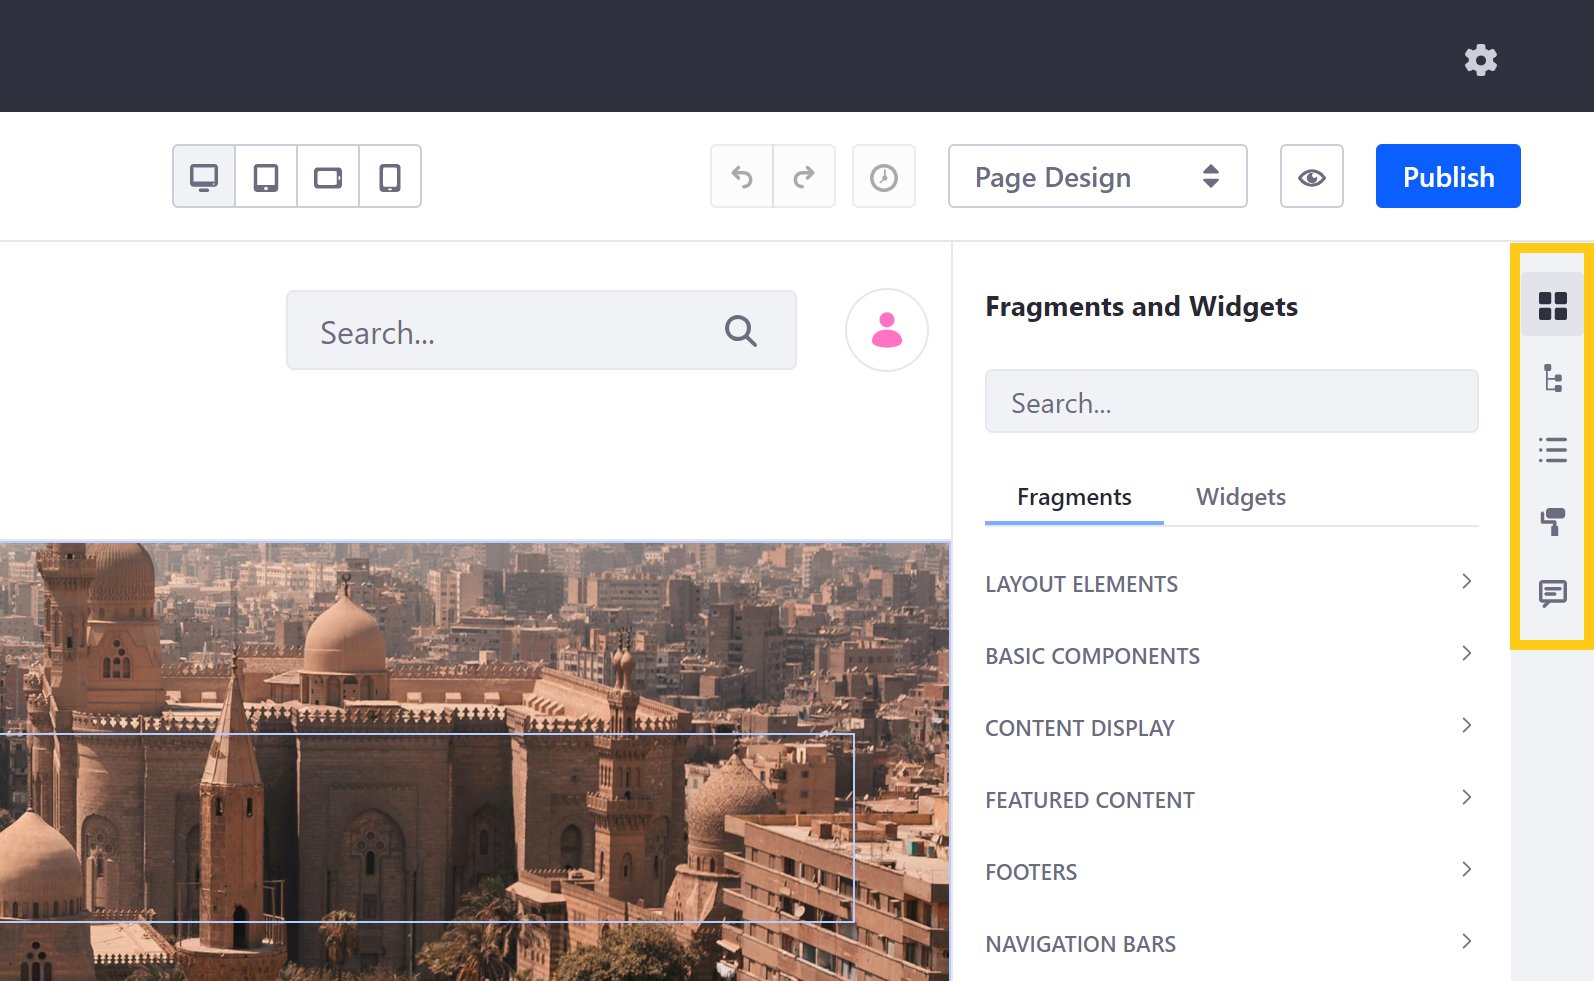
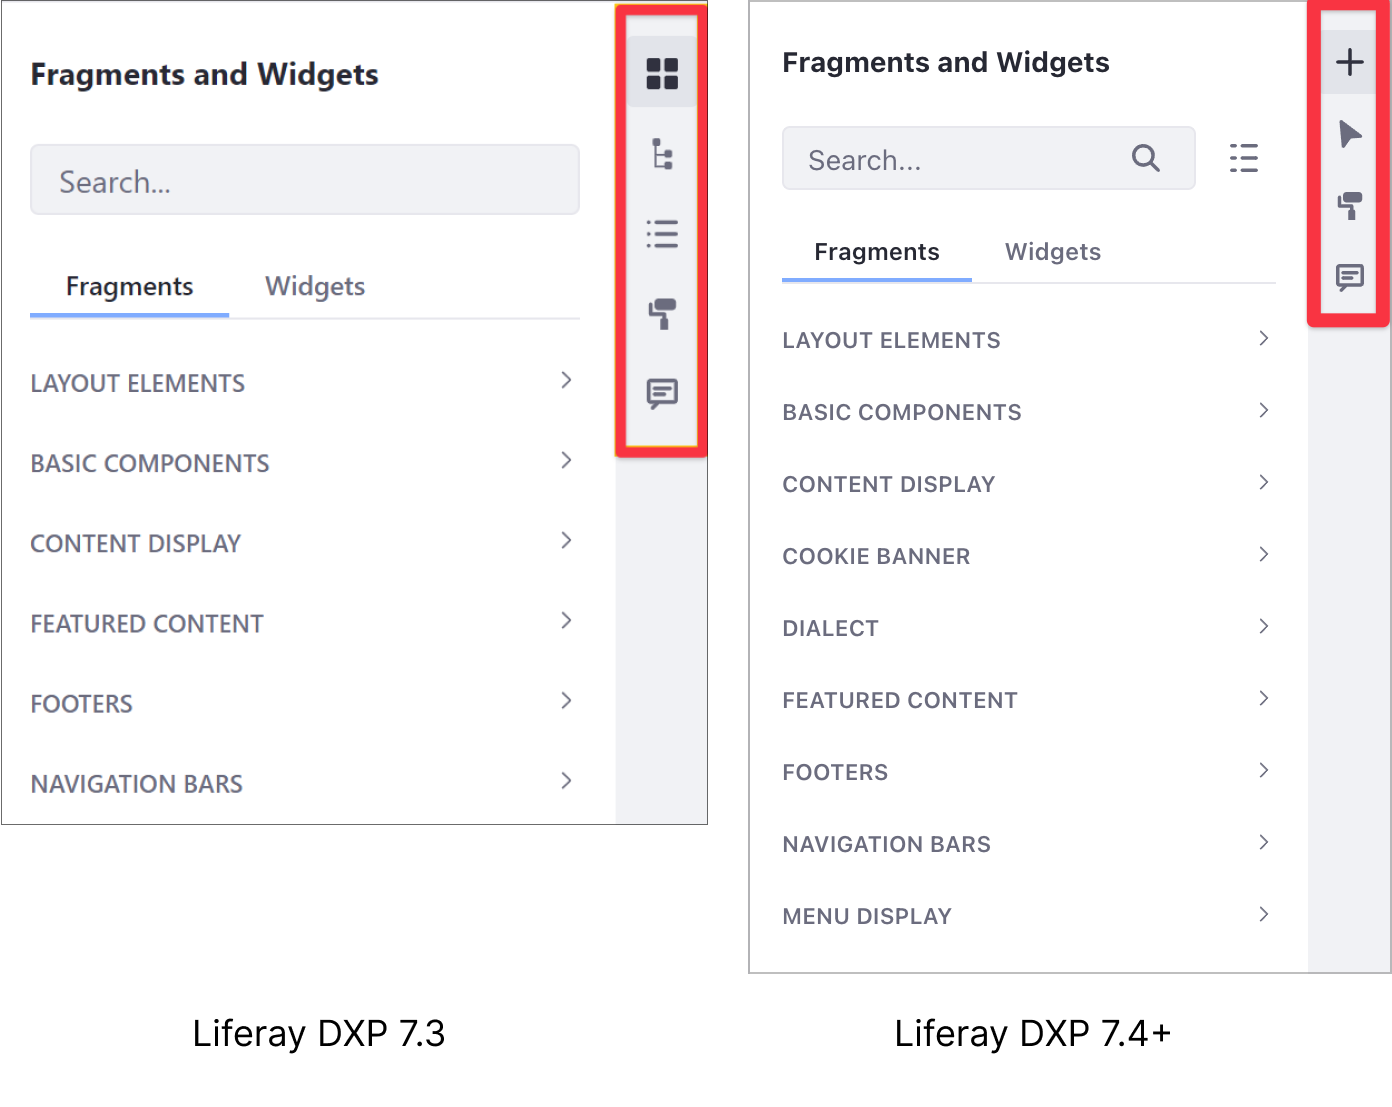
LRDOCS-9656 review and updates to Page editor sidebar content -- Follow up to Evelyne's updates.

diff --git a/docs/dxp/latest/en/site-building/creating-pages/building-and-managing-content-pages/content-page-editor-user-interface-reference.md b/docs/dxp/latest/en/site-building/creating-pages/building-and-managing-content-pages/content-page-editor-user-interface-reference.md
@@ -65,16 +65,20 @@ After making your changes, click *Preview* (![Preview](../../../images/icon-prev
 
 ## Editing Sidebar
 
-> Available: Liferay DXP 7.4+. For previous Liferay DXP versions, see [Editing Sidebar in 7.3](#editing-sidebar-in-7.3)
-
 Depending on your selected editing mode, you can access these options in the edit sidebar:
 
 - ![Fragments and Widgets](../../../images/icon-cards2.png) - [Fragments and Widgets](#fragments-and-widgets)
-- ![Browser](../../../images/icon-browser.png) - [Browser](#browser)
+- ![Browser](../../../images/icon-browser.png) - [Browser](#browser) (Liferay DXP 7.4)
 - ![Page Design Options](../../../images/icon-format.png) - [Page Design Options](#page-design-options)
 - ![Comments](../../../images/icon-comments-w.png) - [Comments](#comments)
 
-![Click Edit to access the Content Page sidebar menu.](content-page-editor-user-interface-reference/images/03.png)
+Before DXP 7.4, the Browser (![Browser](../../../images/icon-browser.png)) button functionality was provided by these two controls:
+
+- ![Selection](../../../images/icon-pages-tree.png) - [Selection](#selection)
+- ![Contents](../../../images/icon-list-ul.png) - [Contents](#contents)
+
+
+![Content Page sidebar controls differences between Liferay DXP 7.4+ and previous versions.](content-page-editor-user-interface-reference/images/03.png)
 
 ### Fragments and Widgets
 
@@ -90,21 +94,28 @@ In the Fragments and Widgets sidebar panel (![Fragments and Widgets icon](../../
 
 ### Browser
 
+> Available: Liferay DXP 7.4+
+
 The *Browser* sidebar panel (![Browser](../../../images/icon-browser.png)) allows you to view, edit, and manage all web content on the Page. The mapped content on a Page can be from different types of assets: documents and media, web content articles, etc. This includes content displayed in widgets and mapped to content fields. See [Managing Web Content on Content Pages](./managing-web-content-on-content-pages.md) for more information. 
 
-   ![Browser tab allows you to view, edit, and manage web content on the page.](./content-page-editor-user-interface-reference/images/02.gif)
+   ![Browser tab allows you to view, edit, and manage web content on the Page.](./content-page-editor-user-interface-reference/images/02.gif)
 
-- **Page Elements**: in Page Elements you can view a hierarchical outline of all Page elements, select, configure, or remove those elements. Similarly, clicking any element on the Page while in the Design mode opens the Selection panel and highlights the selected Page element in the hierarchy. When an element is selected, you can access its General, Styles, and Link options, if it has any. See [Using Page Fragments](../../displaying-content/using-fragments/using-page-fragments.md) for more information.  
+- **Page Elements**: Page Elements shows a hierarchical outline of all Page elements, where you can select, configure, or remove those elements. Clicking any element on the Page while in the Design mode opens the Selection panel and highlights the selected element in the hierarchy. When an element is selected, you can access its General, Styles, and Link options, if it has any. See [Using Page Fragments](../../displaying-content/using-fragments/using-page-fragments.md) for more information.  
 
-```{note}
+   ```{note}
    A Page's Header and Footer are not listed in the Page Elements panel hierarchy. This is because you can only modify them in the [Master Page Template](../defining-headers-and-footers/master-page-templates.md).
-```
+   ```
 
-- **Page Content**: In Page Content you can access the content included in the Page and the options to edit them. All content is distributed by its types and they are shown with its essential information, name and subtype. You can filter content by type or name, so you can quickly find and edit it. You can also see a model with all collection items, add an item to the collection, and open an image editor. It is possible to quickly edit the Inline Text from the edit button in the sidebar.
+- **Page Content**: From Page Content, you can access the content included in the Page and the options to edit them. This content is grouped by type, including essential information, name, and subtype. From here you can complete different actions:
 
-```{note}
-If a content has already been filtered by type, the name filter only searches on that type. And when the content is hovered from the sidebar, a visual help appears in the elements that make use of the content.
-```
+  - Filter content by type or name, so you can quickly find and edit it.
+  - See all the [Collection](../../../content-authoring-and-management/collections-and-collection-pages/about-collections-and-collection-pages.md) items, add new items.
+  - Edit images or the inline text using the editing controls.
+  - Edit the Inline Text from the edit button in the sidebar.
+
+   ```{tip}
+   When you filter content by type, your search is narrowed for that type. Hover over the search results to highlight the corresponding Page element.
+   ```
 
 ### Page Design Options
 
@@ -115,33 +126,12 @@ Click *Look and Feel* (![Look and Feel](../../../images/icon-format.png)) to cha
 Use Page Fragment comments to collaborate with team members while developing your Content Page. Once made, you can view, edit, delete, or reply to open comments in the Content Page sidebar's Comments panel (![Comments icon](../../../images/icon-comments-w.png)). If [mentions](../../../collaboration-and-social/notifications-and-requests/user-guide/mentioning-users.md) are enabled, you can tag Users with Page update permissions as part of your comment.
 
 ```{note}
-   For versions prior to 7.3+, comments are disabled by default. To enable Page comments, go to *Control Panel* → *Configuration* → *System Settings* → *Pages* → *Content Page Editor*. Then, check the *Comments Enabled* checkbox, and click *Update*.
+   For versions prior to 7.3+, comments are disabled by default. To enable Page comments, go to *Control Panel* → *Configuration* → *System Settings* → *Pages* → *Content Page Editor*. Then, check the *Comments Enabled* box, and click *Update*.
 ```
-## Editing Sidebar in 7.3
-
-Depending on your selected editing mode, you can access these options in the edit sidebar:
-
-- ![Fragments and Widgets](../../../images/icon-cards2.png) - [Fragments and Widgets](#fragments-and-widgets)
-- ![Selection](../../../images/icon-pages-tree.png) - [Selection](#selection)
-- ![Contents](../../../images/icon-list-ul.png) - [Contents](#contents)
-- ![Page Design Options](../../../images/icon-format.png) - [Page Design Options](#page-design-options)
-- ![Comments](../../../images/icon-comments-w.png) - [Comments](#comments)
-
-![Click Edit to access the Content Page sidebar menu.](content-page-editor-user-interface-reference/images/03.png)
-
-### Fragments and Widgets
-
-In the Fragments and Widgets sidebar panel (![Fragments and Widgets icon](../../../images/icon-cards2.png)), you can access both out-of-the-box and custom Page elements for building your Page.
-
-- **Fragments**: Fragments are extensible, reusable, drag-and-drop elements that serve as the primary building blocks for Content Pages. Examples include layout elements, videos, and banner images with text overlay. See [Using Page Fragments](../../displaying-content/using-fragments/using-page-fragments.md) to learn more about DXP's out-of-the-box fragments, or [Developing Fragments](../../developer-guide/developing-page-fragments/developing-fragments-intro.md) to learn how to create your own.
-
-   ```{note}
-      For a description of the different Page Fragments in the Content Page editor, see [Page Fragments User Interface Reference](./page-fragments-user-interface-reference.md>).
-   ```
-
-- **Widgets**: As in other DXP contexts, widgets are [applications](../../../developing_applications.html) that add dynamic functionality to a Page. Examples include blogs, message boards, and calendars. See [Using Widgets on Content Pages](./using-widgets-on-a-content-page.md) for more information.
 
 ### Selection
+
+> Available: Liferay DXP 7.3.
 
 In the Selection sidebar panel (![Selection](../../../images/icon-pages-tree.png)), you can view a hierarchical outline of all Page elements, as well as select, configure, or remove those elements. Similarly, clicking any element on the Page while in the Design mode opens the Selection panel and highlights the selected Page element in the hierarchy. When an element is selected, you can access its General, Styles, and Link options, if it has any. See [Using Page Fragments](../../displaying-content/using-fragments/using-page-fragments.md) for more information.
 
@@ -153,19 +143,9 @@ In the Selection sidebar panel (![Selection](../../../images/icon-pages-tree.png
 
 ### Contents
 
+> Available: Liferay DXP 7.3.
+
 Here you can view, edit, and manage all web content on the Page. This includes content displayed in widgets and mapped to content fields. See [Managing Web Content on Content Pages](./managing-web-content-on-content-pages.md) for more information.
-
-### Page Design Options
-
-Click *Look and Feel* (![Look and Feel](../../../images/icon-format.png)) to change the [Master Page Template](../defining-headers-and-footers/managing-master-page-templates.md) or [Style Book](../../site-appearance/style-books/using-a-style-book-to-standardize-site-appearance.md).
-
-### Comments
-
-Use Page Fragment comments to collaborate with team members while developing your Content Page. Once made, you can view, edit, delete, or reply to open comments in the Content Page sidebar's Comments panel (![Comments icon](../../../images/icon-comments-w.png)). If [mentions](../../../collaboration-and-social/notifications-and-requests/user-guide/mentioning-users.md) are enabled, you can tag Users with Page update permissions as part of your comment.
-
-```{note}
-   For versions prior to 7.3+, comments are disabled by default. To enable Page comments, go to *Control Panel* → *Configuration* → *System Settings* → *Pages* → *Content Page Editor*. Then, check the *Comments Enabled* checkbox, and click *Update*.
-```
 
 ## Additional Information
 
